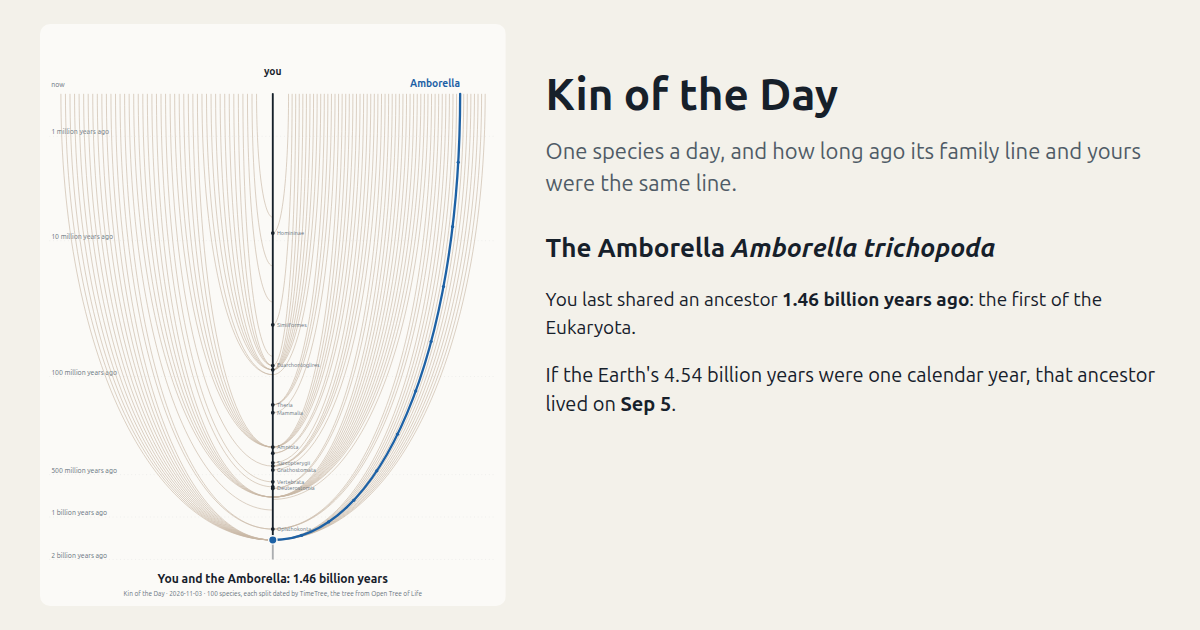
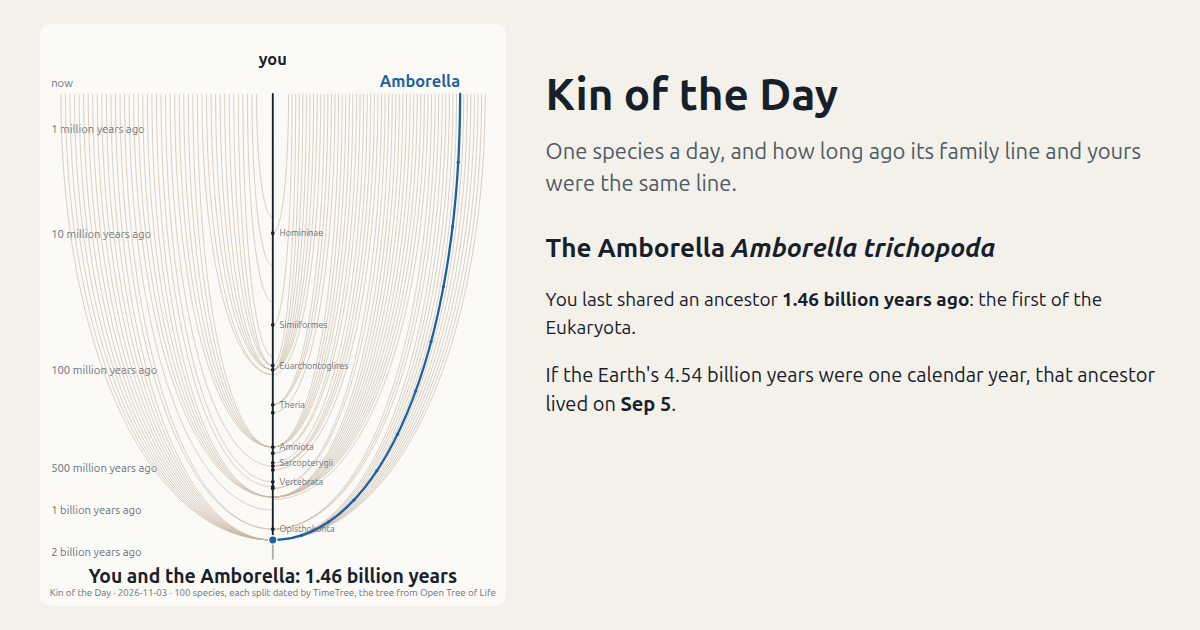
Update Kin of the Day 2026-11-12
🤖 Generated with [Claude Code](https://claude.com/claude-code)

diff --git a/app.js b/app.js
@@ -15,7 +15,16 @@ function el(name, attrs, parent, text) {
 
 const d = (p) => `M${p[0]} C${p[1]} ${p[2]} ${p[3]}`;
 
-function draw(pool, key) {
+// Shrink a line of the drawing's text until it fits across the drawing.
+function fit(t) {
+  const w = t.getComputedTextLength(), room = L.W - 40;
+  if (w > room) t.setAttribute('font-size', parseFloat(t.getAttribute('font-size')) * room / w);
+  return t;
+}
+
+// k grows the labels on a narrow screen (L.textScale); the Save copy is drawn at k = 1.
+function draw(pool, key, k = 1) {
+  const kk = Math.min(k, 1.6);
   const g = L.layout(pool, key), s = pool.species[g.today];
   const dark = matchMedia('(prefers-color-scheme: dark)').matches;
   const faint = `hsl(${g.hue} 25% ${dark ? 40 : 72}%)`, bold = `hsl(${(g.hue + 180) % 360} 70% ${dark ? 65 : 38}%)`;
@@ -28,11 +37,11 @@ function draw(pool, key) {
   for (const a of [1, 10, 100, 500, 1000, 2000]) {
     const y = L.yOf(a);
     el('line', { x1: 20, x2: L.W - 20, y1: y, y2: y, stroke: ink2, 'stroke-opacity': 0.18, 'stroke-dasharray': '2 6' }, svg);
-    el('text', { x: 24, y: y - 4, fill: ink2, 'font-size': 15 }, svg, a >= 1000 ? `${a / 1000} billion years ago` : `${a} million years ago`);
+    el('text', { x: 24, y: y - 4 * k, fill: ink2, 'font-size': 15 * k }, svg, a >= 1000 ? `${a / 1000} billion years ago` : `${a} million years ago`);
   }
   // 'now' sits on whichever margin today's tip leaves free
   const tipX = g.branches[g.today].p[3][0], nowLeft = tipX > L.W * 0.3;
-  el('text', { x: nowLeft ? 24 : L.W - 24, y: g.top - 14, fill: ink2, 'font-size': 15, 'text-anchor': nowLeft ? 'start' : 'end', class: 'key' }, svg, 'now');
+  el('text', { x: nowLeft ? 24 : L.W - 24, y: g.top - 14, fill: ink2, 'font-size': 15 * k, 'text-anchor': nowLeft ? 'start' : 'end', class: 'key' }, svg, 'now');
   for (const b of g.branches) if (!b.today) el('path', { d: d(b.p), fill: 'none', stroke: faint, 'stroke-width': 1.4 }, svg);
   // our line: from today's split up to us
   el('line', { x1: g.cx, x2: g.cx, y1: g.split, y2: g.top, stroke: ink, 'stroke-width': 4, 'stroke-linecap': 'round' }, svg);
@@ -41,8 +50,8 @@ function draw(pool, key) {
   let lastY = -Infinity;
   for (const o of g.ours) {
     el('circle', { cx: g.cx, cy: o.y, r: 4, fill: ink }, svg);
-    if (o.y - lastY < 14) continue;
-    el('text', { x: g.cx + 9, y: o.y + 4, fill: ink2, 'font-size': 12 }, svg, o.name);
+    if (o.y - lastY < 14 * k) continue;
+    el('text', { x: g.cx + 9 * k, y: o.y + 4 * k, fill: ink2, 'font-size': 12 * k }, svg, o.name);
     lastY = o.y;
   }
   const t = g.branches[g.today];
@@ -50,12 +59,12 @@ function draw(pool, key) {
   for (const c of g.clades) el('circle', { cx: c.at[0], cy: c.at[1], r: 3.5, fill: bold }, svg);
   el('circle', { cx: g.cx, cy: g.split, r: 9, fill: bold, stroke: bg, 'stroke-width': 3 }, svg);
   const tip = t.p[3], anchor = tip[0] > L.W * 0.75 ? 'end' : tip[0] < L.W * 0.25 ? 'start' : 'middle';
-  el('text', { x: tip[0], y: g.top - 14, fill: bold, 'font-size': 22, 'font-weight': 700, 'text-anchor': anchor, class: 'key' }, svg, s.common);
-  el('text', { x: g.cx, y: g.top - 40, fill: ink, 'font-size': 22, 'font-weight': 700, 'text-anchor': 'middle', class: 'key' }, svg, 'you');
-  el('text', { x: L.W / 2, y: L.H - 50, fill: ink, 'font-size': 26, 'font-weight': 700, 'text-anchor': 'middle' }, svg,
-    `You and the ${s.common}: ${L.fmtAge(s.age)}`);
-  el('text', { x: L.W / 2, y: L.H - 22, fill: ink2, 'font-size': 14, 'text-anchor': 'middle' }, svg,
-    `Kin of the Day · ${key} · ${pool.species.length} species, each split dated by TimeTree, the tree from Open Tree of Life`);
+  el('text', { x: tip[0], y: g.top - 14, fill: bold, 'font-size': 22 * kk, 'font-weight': 700, 'text-anchor': anchor, class: 'key' }, svg, s.common);
+  el('text', { x: g.cx, y: g.top - 14 - 30 * kk, fill: ink, 'font-size': 22 * kk, 'font-weight': 700, 'text-anchor': 'middle', class: 'key' }, svg, 'you');
+  fit(el('text', { x: L.W / 2, y: L.H - 50, fill: ink, 'font-size': 26 * kk, 'font-weight': 700, 'text-anchor': 'middle' }, svg,
+    `You and the ${s.common}: ${L.fmtAge(s.age)}`));
+  fit(el('text', { x: L.W / 2, y: L.H - 22, fill: ink2, 'font-size': 14 * k, 'text-anchor': 'middle' }, svg,
+    `Kin of the Day · ${key} · ${pool.species.length} species, each split dated by TimeTree, the tree from Open Tree of Life`));
   return { g, s };
 }
 
@@ -83,13 +92,22 @@ async function main() {
   const pool = await (await fetch('data/pool.json')).json();
   const q = new URLSearchParams(location.search).get('d');
   const key = q && /^\d{4}-\d{2}-\d{2}$/.test(q) ? q : L.dayKey();
-  const { g, s } = draw(pool, key);
+  const scale = () => L.textScale($('art').getBoundingClientRect().width);
+  let k = scale();
+  const { g, s } = draw(pool, key, k);
   words(pool, key, g, s);
+  // the words can bring a scrollbar, which narrows the drawing after its first draw
+  if (Math.abs(scale() - k) > 0.01) draw(pool, key, (k = scale()));
   $('prev').href = `?d=${shift(key, -1)}`;
   $('next').href = `?d=${shift(key, 1)}`;
   $('today').hidden = key === L.dayKey();
+  // a phone turned sideways, or a window resized, redraws at the new label size
+  // (watching the drawing, not the window: a scrollbar appearing narrows it too)
+  new ResizeObserver(() => { const n = scale(); if (Math.abs(n - k) > 0.01) draw(pool, key, (k = n)); }).observe($('art'));
   $('save').onclick = () => {
+    draw(pool, key, 1);
     const blob = new Blob([new XMLSerializer().serializeToString($('art'))], { type: 'image/svg+xml' });
+    draw(pool, key, k);
     const a = Object.assign(document.createElement('a'), { href: URL.createObjectURL(blob), download: `kin-${key}.svg` });
     a.click();
   };

diff --git a/kin-logic.js b/kin-logic.js
@@ -82,6 +82,15 @@ export function yOf(mya) {
   return TOP + (BOTTOM - TOP) * Math.log10(1 + mya) / Math.log10(1 + DEEPEST);
 }
 
+// On a phone the 1000-unit drawing is ~360 px wide, so a 12-unit label renders at 4 px.
+// Labels grow until the smallest (12 units) reads at MIN_PX on screen, at most 2.2 times;
+// at desktop widths the factor is 1 and the drawing is the printed one.
+export const MIN_PX = 9;
+export function textScale(px) {
+  if (!(px > 0)) return 1;
+  return Math.min(2.2, Math.max(1, (MIN_PX / 12) * W / px));
+}
+
 // The sentence's subject: the ancestor itself, or the clade it sits inside.
 export function ancestor(s) {
   return s.named ? `the first of the ${s.mrca}` : `an ancestor within the ${s.mrca}`;
